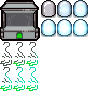
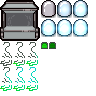
Upgrade Machine now must be charged before use

Changed region(s): [[0.4062, 0.4375, 0.5938, 0.5312], [0.1562, 0.3125, 0.25, 0.4062]]

diff --git a/src/callbacks/handler_MachineEvents.ts b/src/callbacks/handler_MachineEvents.ts
@@ -1,9 +1,11 @@
 import {
+  CollectibleTypeLabUtility,
   getItemUpgrade,
   itemHasUpgrade,
   LabMachineVariant,
   UNBALANCED,
 } from "../constants";
+import { getGlobalData, saveGlobalData, SaveType } from "../saveData";
 import { playSound, spawnPickup } from "../utils";
 
 export const enum MachineEntityType {
@@ -25,7 +27,10 @@ const enum UpgradeAnimKey {
   INITIATE = "Initiate",
   WIGGLE = "Wiggle",
   PRIZE = "Prize",
+  READY = "Ready",
 }
+const CHARGE_SAVE_KEY = "upgrade_machine_charged";
+const BATT_SAVE_KEY = "upgrade_machine_batt";
 
 export function preCollide(
   self: EntityNPC,
@@ -43,7 +48,42 @@ export function preCollide(
     return null;
   }
 
+  const isCharged = getGlobalData(SaveType.PER_FLOOR, CHARGE_SAVE_KEY) as
+    | boolean
+    | null;
+  const hasBatt = getGlobalData(SaveType.PER_FLOOR, BATT_SAVE_KEY) as
+    | boolean
+    | null;
   const player = collider.ToPlayer()!;
+  if (isCharged) {
+    return tryAcceptItem(player, self);
+  }
+
+  if (tryAcceptBattery(player)) {
+    saveGlobalData(SaveType.PER_FLOOR, BATT_SAVE_KEY, true);
+    saveGlobalData(SaveType.PER_FLOOR, CHARGE_SAVE_KEY, true);
+    self.GetSprite().Play(UpgradeAnimKey.READY, true);
+    self.GetData().timeout = 15;
+
+    return null;
+  }
+  if (hasBatt == null || hasBatt) {
+    saveGlobalData(SaveType.PER_FLOOR, BATT_SAVE_KEY, false);
+    spawnPickup(
+      self.Position.add(Vector(0, 25)),
+      self.GetDropRNG(),
+      PickupVariant.PICKUP_COLLECTIBLE,
+      CollectibleTypeLabUtility.COLLECTIBLE_DISCHARGEDBATTERY,
+      true,
+    );
+    self.PlaySound(SoundEffect.SOUND_BATTERYDISCHARGE, 1, 0, false, 1);
+    self.GetData().timeout = 15;
+  }
+
+  return null;
+}
+
+function tryAcceptItem(player: EntityPlayer, self: EntityNPC): boolean | null {
   for (const slot of UPGRADE_SELECTION_ORDER) {
     if (itemHasUpgrade(player.GetActiveItem(slot), player.GetPlayerType())) {
       const upgradingItem = player.GetActiveItem(slot);
@@ -65,6 +105,34 @@ export function preCollide(
   self.GetData().timeout = 2 * 30;
 
   return null;
+}
+
+function tryAcceptBattery(player: EntityPlayer): boolean {
+  if (
+    !player.HasCollectible(
+      CollectibleTypeLabUtility.COLLECTIBLE_DISCHARGEDBATTERY,
+    )
+  ) {
+    return false;
+  }
+
+  for (const slot of UPGRADE_SELECTION_ORDER) {
+    if (
+      player.GetActiveItem(slot) ===
+        CollectibleTypeLabUtility.COLLECTIBLE_DISCHARGEDBATTERY &&
+      player.GetActiveCharge(slot) >= 5
+    ) {
+      player.RemoveCollectible(
+        CollectibleTypeLabUtility.COLLECTIBLE_DISCHARGEDBATTERY,
+        true,
+        slot,
+      );
+
+      return true;
+    }
+  }
+
+  return false;
 }
 
 export function update(self: EntityNPC): boolean | null {
@@ -126,6 +194,7 @@ export function update(self: EntityNPC): boolean | null {
 
     playSound(SoundEffect.SOUND_SLOTSPAWN);
 
+    saveGlobalData(SaveType.PER_FLOOR, CHARGE_SAVE_KEY, false);
     self.GetData().upgrading = null;
     self.GetData().upgradingPlayer = null;
   }
@@ -171,7 +240,7 @@ export function trySpawn(room: Room, floor: Level): void {
           room.GetBottomRightPos().X * 0.75,
           room.GetTopLeftPos().Y + 10,
         );
-        Isaac.Spawn(
+        const machineEnt = Isaac.Spawn(
           MachineEntityType.UPGRADEMACHINE,
           MachineEntityVariant.UPGRADEMACHINE,
           0,
@@ -179,6 +248,22 @@ export function trySpawn(room: Room, floor: Level): void {
           Vector.Zero,
           null,
         );
+
+        const isCharged = getGlobalData(SaveType.PER_FLOOR, CHARGE_SAVE_KEY) as
+          | boolean
+          | null;
+        if (isCharged == null) {
+          saveGlobalData(SaveType.PER_FLOOR, CHARGE_SAVE_KEY, false);
+        } else if (isCharged) {
+          machineEnt.GetSprite().Play(UpgradeAnimKey.READY, true);
+        }
+
+        const hasBatt = getGlobalData(SaveType.PER_FLOOR, BATT_SAVE_KEY) as
+          | boolean
+          | null;
+        if (hasBatt == null) {
+          saveGlobalData(SaveType.PER_FLOOR, BATT_SAVE_KEY, true);
+        }
       }
       break;
   }

diff --git a/src/main.ts b/src/main.ts
@@ -1,7 +1,7 @@
 /* eslint-disable @typescript-eslint/no-unsafe-member-access */
 /* eslint-disable prettier/prettier */
 // Define imports
-import { randomCollectible, DEBUG_SPAWN, itemHasUpgrade, VERSION, DUMP_NOUPGRADE, CollectibleTypeLabUpgrade } from "./constants";
+import { randomCollectible, DEBUG_SPAWN, itemHasUpgrade, VERSION, DUMP_NOUPGRADE, CollectibleTypeLabUpgrade, CollectibleTypeLabUtility } from "./constants";
 import * as SaveUtil from "./saveData";
 import * as extMath from "./extMath";
 import { registerExternalItemDescriptions } from "./eidCompat";
@@ -109,6 +109,8 @@ import * as EFF_CRATEOFFRIENDS from "./items/active/specialized/crateOfFriends";
 import * as EFF_CHAOSPOOP from "./items/active/specialized/chaosPoop";
 import * as EFF_SIGILOFBELIAL from "./items/active/specialized/sigilOfBelial";
 import * as EFF_TEMPEREDBLADE from "./items/active/specialized/temperedBlade";
+// --- Utility Actives ---
+import * as EFF_NONE from "./items/active/utility/noEffect";
 
 // Register the mod
 // (which will make it show up in the list of mods on the mod screen in the main menu)
@@ -277,6 +279,9 @@ ABANDONED_LABORATORY.AddCallback(ModCallbacks.MC_POST_GAME_STARTED, EFF_CRATEOFF
 ABANDONED_LABORATORY.AddCallback(ModCallbacks.MC_USE_ITEM, EFF_CHAOSPOOP.use, EFF_CHAOSPOOP.ownType());
 ABANDONED_LABORATORY.AddCallback(ModCallbacks.MC_USE_ITEM, EFF_SIGILOFBELIAL.use, EFF_SIGILOFBELIAL.ownType());
 ABANDONED_LABORATORY.AddCallback(ModCallbacks.MC_USE_ITEM, EFF_TEMPEREDBLADE.use, EFF_TEMPEREDBLADE.ownType());
+
+// --- Utility Items ---
+ABANDONED_LABORATORY.AddCallback(ModCallbacks.MC_USE_ITEM, EFF_NONE.use, CollectibleTypeLabUtility.COLLECTIBLE_DISCHARGEDBATTERY);
 
 let itemsWithUpgrade = 0;
 let items = 0;

diff --git a/src/constants.ts b/src/constants.ts
@@ -1,6 +1,10 @@
 import { getGlobalData, saveGlobalData, SaveType } from "./saveData";
 import { toTearFlag } from "./utils";
 
+export enum CollectibleTypeLabUtility {
+  COLLECTIBLE_DISCHARGEDBATTERY = Isaac.GetItemIdByName("Discharged Battery"),
+}
+
 export enum CollectibleTypeLabUpgrade {
   // --- Normal Upgraded Actives ---
   COLLECTIBLE_DIGITALCARD = Isaac.GetItemIdByName("Digital Card"),

diff --git a/src/items/active/utility/noEffect.ts b/src/items/active/utility/noEffect.ts
@@ -1,0 +1,10 @@
+export function use(
+  _type: CollectibleType,
+  _rand: RNG,
+  _player: EntityPlayer,
+  _UseFlags: int,
+  _ActiveSlot: int,
+  _CustomVarData: int,
+): boolean | { Discharge: boolean; Remove: boolean; ShowAnim: boolean } {
+  return { Discharge: false, Remove: false, ShowAnim: false };
+}
